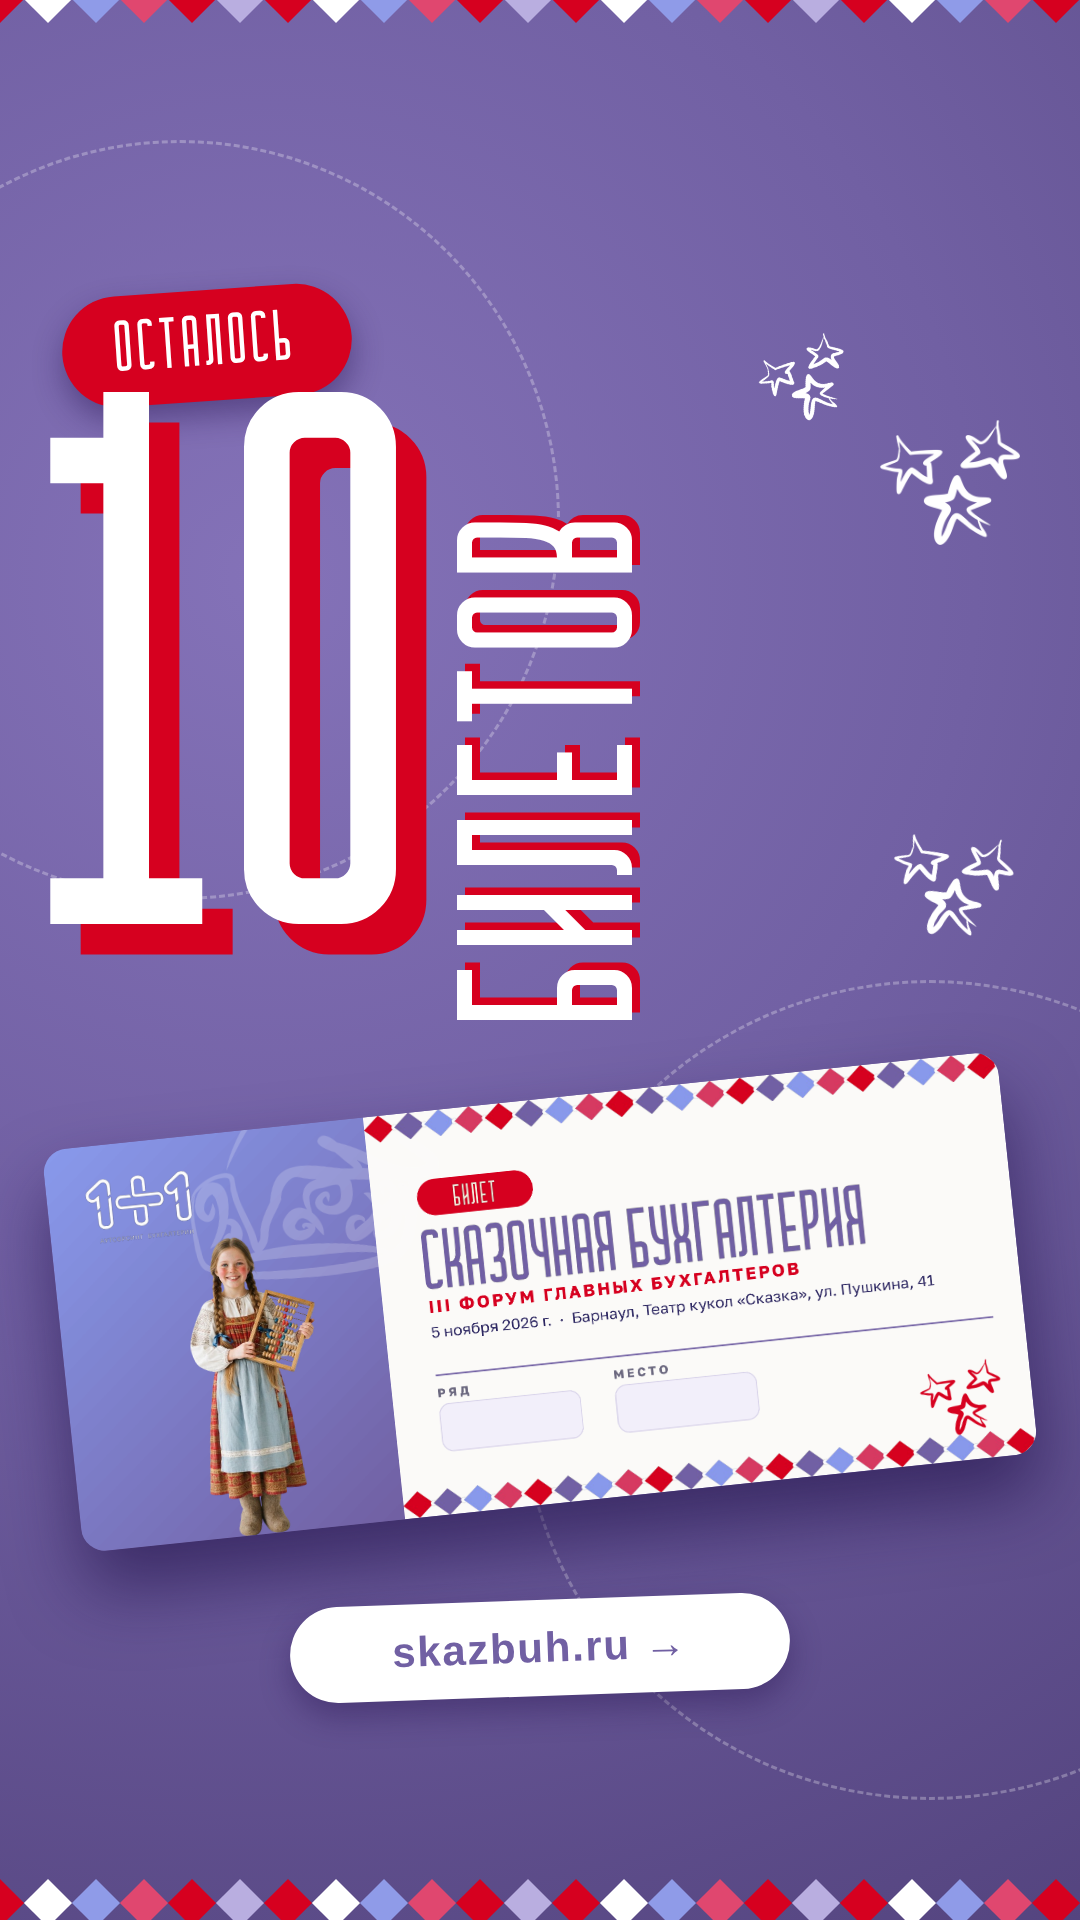
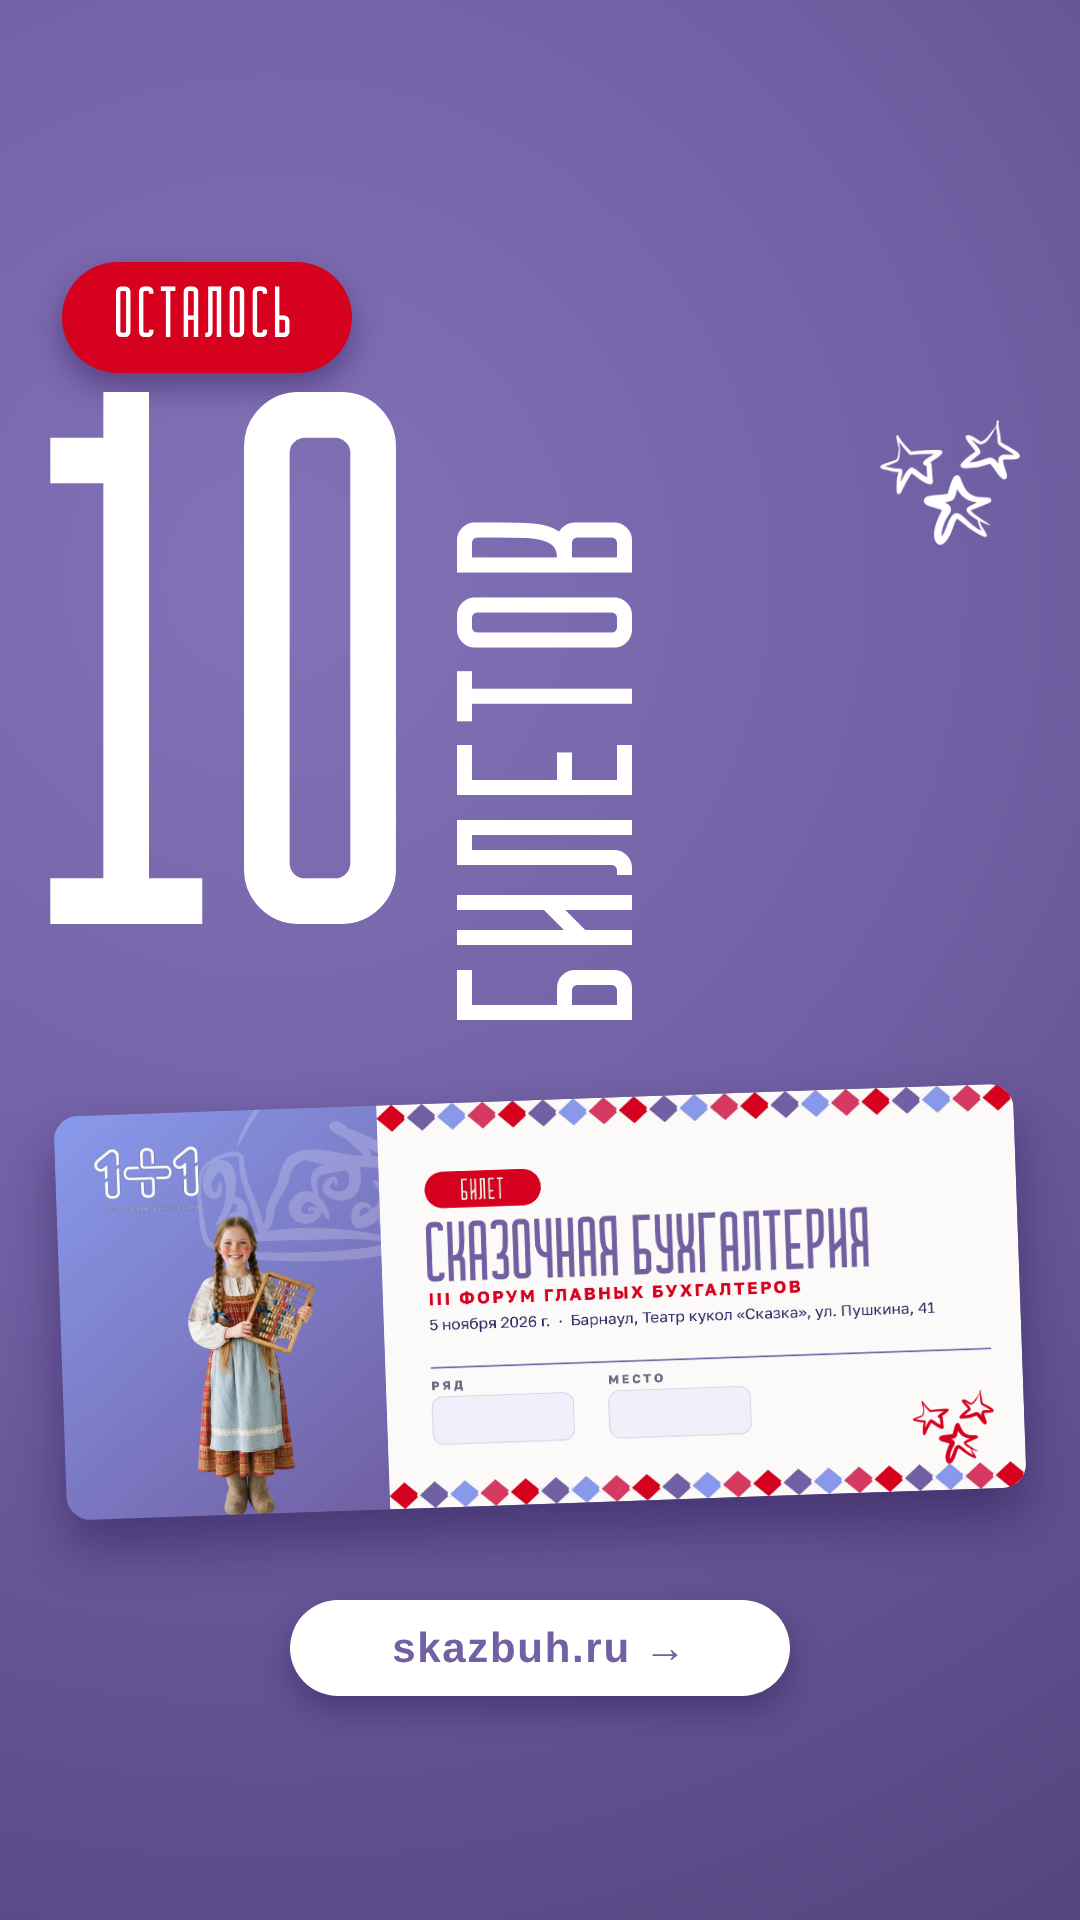
Social creatives: calmer version without diamond ornament
Removed the diamond borders, red text shadows, dashed rings and extra
stars; straight button, almost level ticket.

Claude-Session: https://claude.ai/code/session_01DZEn5nyTAWE8zavBUm6caU

diff --git a/conference-skazbuh/social/story.html b/conference-skazbuh/social/story.html
@@ -3,20 +3,18 @@
 html,body{width:1080px;height:1920px}
 .ring.r1{left:-200px;top:140px;width:760px;height:760px}
 .ring.r2{right:-260px;bottom:120px;width:820px;height:820px}
-.pill.o{left:62px;top:290px;font-size:72px;padding:18px 54px 14px;transform:rotate(-4deg)}
+.pill.o{left:62px;top:262px;font-size:72px;padding:18px 54px 14px;transform:none}
 .big.n{left:54px;top:430px;font-size:760px}
-.vert.w{left:470px;top:1020px;font-size:250px;letter-spacing:.04em;text-shadow:.03em .03em 0 var(--red);transform:rotate(-90deg);transform-origin:left top}
-.ticket{left:60px;top:1100px;width:960px;transform:rotate(-6deg)}
-.btn{left:50%;margin-left:-250px;top:1600px;width:500px;text-align:center;font-size:42px;padding:24px 0;transform:rotate(-2deg)}
+.vert.w{left:470px;top:1020px;font-size:250px;letter-spacing:.04em;text-shadow:none;transform:rotate(-90deg);transform-origin:left top}
+.ticket{left:60px;top:1100px;width:960px;transform:rotate(-2deg)}
+.btn{left:50%;margin-left:-250px;top:1600px;width:500px;text-align:center;font-size:42px;padding:24px 0;transform:none}
 .s1{right:60px;top:420px;width:140px}.s2{right:230px;top:340px;width:90px;transform:rotate(-16deg)}
 .s3{right:70px;top:830px;width:120px;transform:rotate(12deg)}
 </style></head><body>
-<div class="ring r1"></div><div class="ring r2"></div>
-<img class="star s1" src="zvezdy-w.png" alt=""><img class="star s2" src="zvezdy-w.png" alt=""><img class="star s3" src="zvezdy-w.png" alt="">
+<img class="star s1" src="zvezdy-w.png" alt="">
 <div class="pill o">Осталось</div>
 <div class="big n">10</div>
 <div class="vert w">билетов</div>
 <img class="ticket" src="ticket.png" alt="">
 <div class="btn">skazbuh.ru →</div>
-<script src="diamonds.js"></script><script>strip(1886,1080,34,14);strip(-18,1080,34,14);</script>
 </body></html>

diff --git a/conference-skazbuh/social/square.html b/conference-skazbuh/social/square.html
@@ -3,19 +3,17 @@
 html,body{width:1080px;height:1080px}
 .ring.r1{left:-160px;top:-160px;width:620px;height:620px}
 .ring.r2{right:-200px;bottom:-200px;width:700px;height:700px}
-.pill.o{left:58px;top:60px;font-size:60px;padding:16px 46px 12px;transform:rotate(-4deg)}
+.pill.o{left:58px;top:60px;font-size:60px;padding:16px 46px 12px;transform:none}
 .big.n{left:50px;top:210px;font-size:620px}
-.vert.w{left:430px;top:620px;font-size:210px;letter-spacing:.04em;text-shadow:.03em .03em 0 var(--red);transform:rotate(-90deg);transform-origin:left top}
-.ticket{left:150px;top:660px;width:900px;transform:rotate(-6deg)}
-.btn{right:60px;top:430px;font-size:38px;padding:22px 52px;transform:rotate(4deg)}
+.vert.w{left:430px;top:620px;font-size:210px;letter-spacing:.04em;text-shadow:none;transform:rotate(-90deg);transform-origin:left top}
+.ticket{left:150px;top:660px;width:900px;transform:rotate(-2deg)}
+.btn{right:60px;top:430px;font-size:38px;padding:22px 52px;transform:none}
 .s1{right:70px;top:120px;width:120px}.s2{right:250px;top:60px;width:80px;transform:rotate(-16deg)}
 </style></head><body>
-<div class="ring r1"></div><div class="ring r2"></div>
-<img class="star s1" src="zvezdy-w.png" alt=""><img class="star s2" src="zvezdy-w.png" alt="">
+<img class="star s1" src="zvezdy-w.png" alt="">
 <div class="pill o">Осталось</div>
 <div class="big n">10</div>
 <div class="vert w">билетов</div>
 <img class="ticket" src="ticket.png" alt="">
 <div class="btn">skazbuh.ru →</div>
-<script src="diamonds.js"></script><script>strip(1046,1080,34,14);strip(-18,1080,34,14);</script>
 </body></html>

diff --git a/conference-skazbuh/social/post2.css b/conference-skazbuh/social/post2.css
@@ -6,9 +6,9 @@ body{font-family:'Liberation Sans',Arial,sans-serif;position:relative;overflow:h
 .abs{position:absolute}
 .dm{position:absolute;width:34px;height:34px;transform:rotate(45deg)}
 .pill{position:absolute;background:var(--red);color:#fff;font-family:'Cramaten',sans-serif;text-transform:uppercase;border-radius:999px;white-space:nowrap;letter-spacing:.06em;box-shadow:0 14px 30px rgba(40,20,80,.45)}
-.big{position:absolute;font-family:'Cramaten',sans-serif;color:#fff;line-height:.8;white-space:nowrap;text-shadow:.04em .04em 0 var(--red)}
+.big{position:absolute;font-family:'Cramaten',sans-serif;color:#fff;line-height:.8;white-space:nowrap;text-shadow:none}
 .vert{position:absolute;font-family:'Cramaten',sans-serif;color:#fff;line-height:.8;white-space:nowrap;text-transform:uppercase;text-shadow:.04em .04em 0 var(--red);transform-origin:left top}
-.ticket{position:absolute;border-radius:24px;box-shadow:0 40px 70px rgba(30,15,70,.6)}
+.ticket{position:absolute;border-radius:24px;box-shadow:0 28px 50px rgba(30,15,70,.45)}
 .btn{position:absolute;background:#fff;color:var(--violet);font-weight:bold;border-radius:999px;white-space:nowrap;letter-spacing:.04em;box-shadow:0 14px 30px rgba(40,20,80,.4)}
 .star{position:absolute;height:auto}
 .ring{position:absolute;border-radius:50%;border:3px dashed rgba(255,255,255,.28)}
